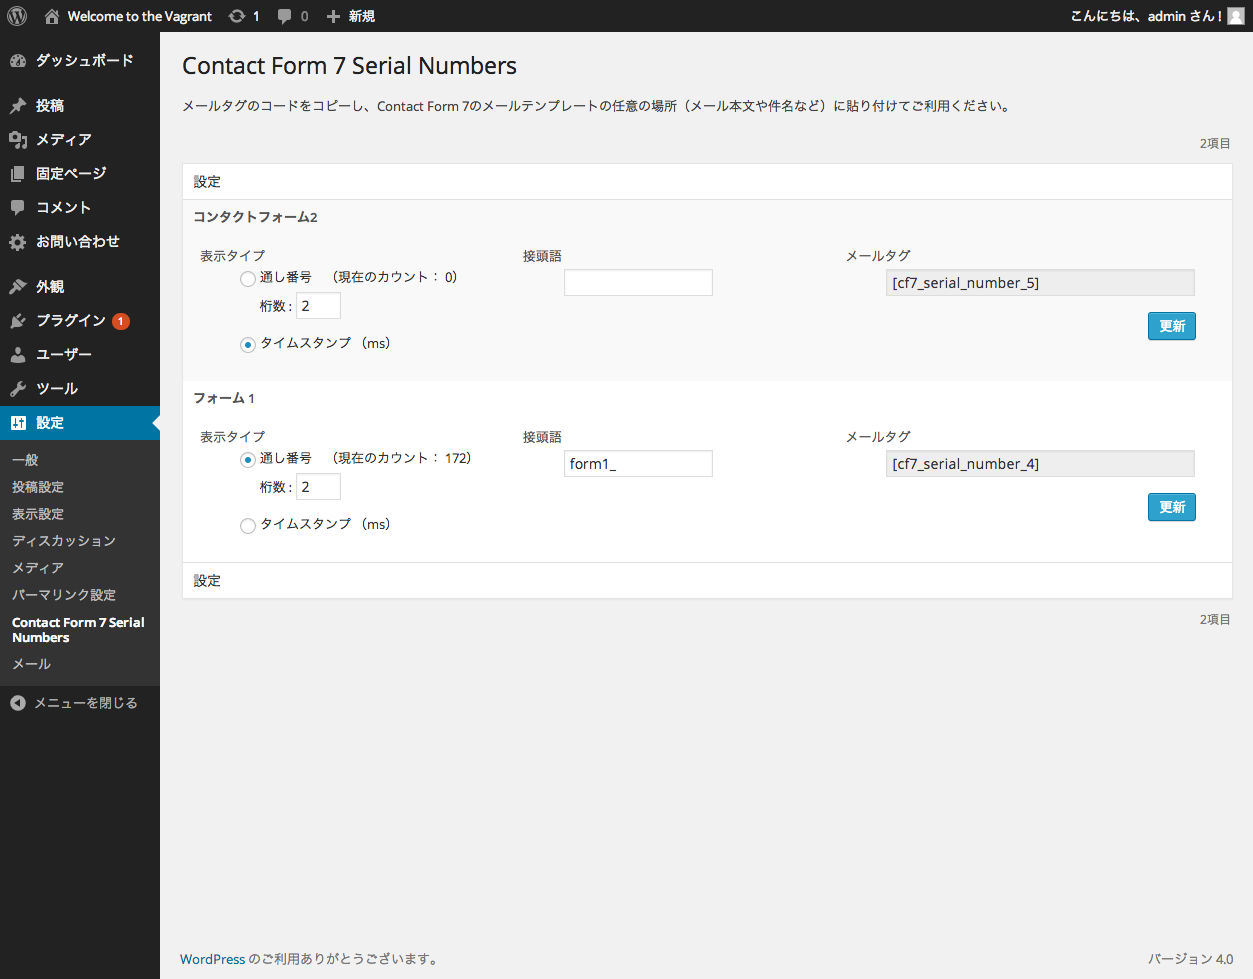
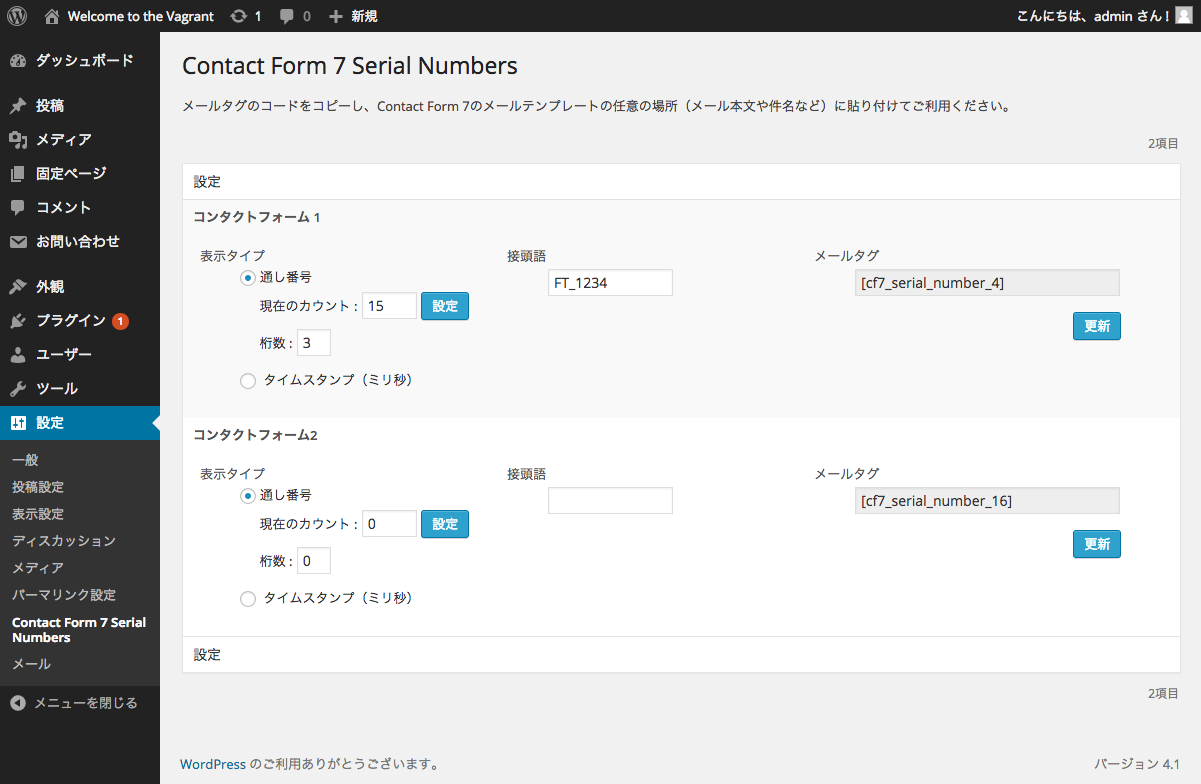
Modified : release for v0.6.0

diff --git a/includes/class-contact_list_table.php b/includes/class-contact_list_table.php
@@ -60,7 +60,7 @@ class NKLAB_WPCF7SN_Contact_List_Table extends WP_List_Table {
             . '      <dd>'
             . '        <p class="setting_body">'
             . '          <input type="radio" name="nklab_wpcf7sn_type_' . $html_encoded_id . '" value="1" ' . ( $type == 1  ? 'checked' : '' ) . ' /><label>' . __( 'Serial Number', ContactForm7_Serial_Numbers::DOMAIN ) . '</label><br />'
-            . '          <span class="indent"><label>' . __( 'Now Count value', ContactForm7_Serial_Numbers::DOMAIN ) . '</label> : <input type="text" name="nklab_wpcf7sn_count_' . $html_encoded_id . '" id="nklab_wpcf7sn_count_' . $html_encoded_id . '" value="' . $count . '" size="10" maxlength="4" /> <input type="button" id="CountModify' . $html_encoded_id . '" data-id="' . $html_encoded_id . '" class="button-primary" value="' . __( 'Set', ContactForm7_Serial_Numbers::DOMAIN ) . '" /></span>'
+            . '          <span class="indent"><label>' . __( 'Now Count value', ContactForm7_Serial_Numbers::DOMAIN ) . '</label> : <input type="text" name="nklab_wpcf7sn_count_' . $html_encoded_id . '" id="nklab_wpcf7sn_count_' . $html_encoded_id . '" value="' . $count . '" size="5" maxlength="4" /> <input type="button" id="CountModify' . $html_encoded_id . '" data-id="' . $html_encoded_id . '" class="button-primary" value="' . __( 'Set', ContactForm7_Serial_Numbers::DOMAIN ) . '" /></span>'
             . '          <span class="indent"><label>' . __( 'Number of digits', ContactForm7_Serial_Numbers::DOMAIN ) . '</label> : <input type="text" name="nklab_wpcf7sn_digits_' . $html_encoded_id . '" value="' . $ditits . '" size="2" maxlength="2" /></span>'
             . '        </p>'
             . '        <p class="setting_body">'

diff --git a/README.md b/README.md
@@ -1,9 +1,9 @@
 # Contact Form 7 Serial Numbers #
 **Contributors:** Kiminori KATO
 **Tags:** contact form
-**Requires at least:** 4.0
-**Tested up to:** 4.0
-**Stable tag:** 0.5.1
+**Requires at least:** 3.9 or higher
+**Tested up to:** 4.1
+**Stable tag:** 0.6
 **License:** GPLv2
 **License URI:** http://www.gnu.org/licenses/gpl-2.0.html
 
@@ -29,6 +29,16 @@ Edit Settings in the Admin panels.
 
 ## Changelog ##
 
+### 0.6 - 2015/01/29 ###
+* Added: Confirmed work with Contact Form 7 4.0.3, 4.1
+* Added: Confirmed work with Wordpress version 4.1
+* Added: Added the setting button that changes count number value
+* Added: Added the ShortCode 'wpcf7sn_view_count' that display the recent serial numbers
+
+### 0.5.2 - 2014/11/26 ###
+* UPDATED: Updated so that the requires as least wordpress version is 3.9 or higher.
+* UPDATED: Updated the tested up to wordpress version.
+
 ### 0.5.1 - 2014/11/06 ###
 * Update: Updated this documents which had forgotten to update.
 
@@ -52,7 +62,7 @@ Edit Settings in the Admin panels.
 
 ## Upgrade Notice ##
 
-### 0.5.1 ###
+### 0.6 ###
 
 Nothing.
 
